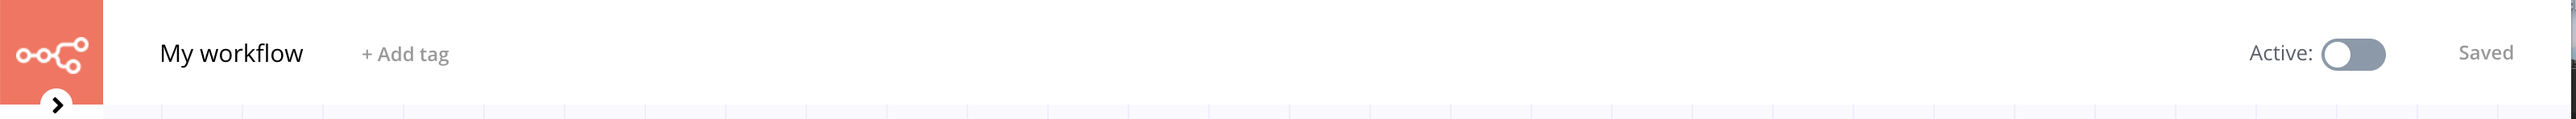
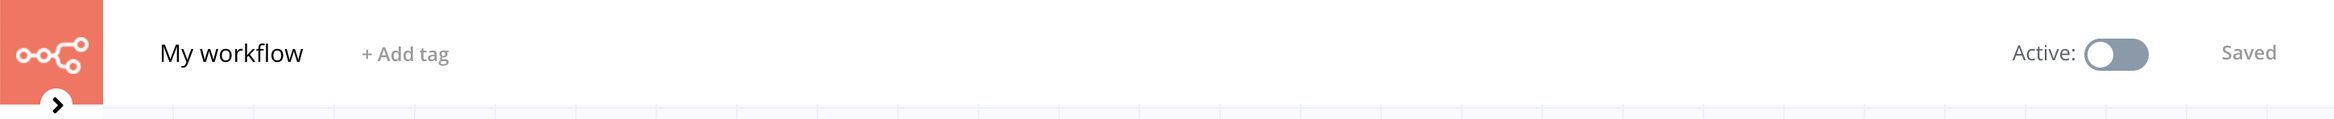
:hammer: Edits based on UX tests

Changed region(s): [[0.0, 0.0, 0.2174, 0.9459], [0.8385, 0.0, 1.0, 1.0]]

diff --git a/docs/.vuepress/config.js b/docs/.vuepress/config.js
@@ -183,7 +183,7 @@ module.exports = {
 					path: '/courses/',
 				},
 				{
-					title: '🎓 Level 1',
+					title: '🎓 Level 1: Beginners\' course',
 					path: '/courses/level-one/',
 					sidebarDepth: 1,
 					children: [

diff --git a/docs/courses/level-one/chapter-1.md b/docs/courses/level-one/chapter-1.md
@@ -1,12 +1,12 @@
 # Navigating the Editor UI
 
-> In this lesson, you will learn to navigate the Editor UI. We will walk through the canvas and show you what each icon means and where to find things. Don’t worry if you don’t understand some of the concepts that are mentioned, we will explain them in detail as we build the workflow.
+In this lesson, you will learn to navigate the Editor UI. We will walk through the canvas and show you what each icon means and where to find things that you will need while building workflows in n8n.
 
 [[toc]]
 
 ## Getting started
 
-First of all, you need to set up n8n. There are different ways to [get started with n8n](https://docs.n8n.io/getting-started/quickstart.html#sign-up-on-n8n-cloud): you can [install it locally with npm](https://docs.n8n.io/getting-started/quickstart.html#install-with-npm), run it with Docker, or sign up on [n8n.cloud](http://n8n.cloud). The option you choose depends on your preference and technical requirements.
+First of all, you need to set up n8n. There are different ways to [get started with n8n](https://docs.n8n.io/getting-started/installation/): you can [install it locally with npm](https://docs.n8n.io/getting-started/quickstart.html#install-with-npm), run it with Docker, or sign up on [n8n.cloud](http://n8n.cloud). The option you choose depends on your preference and technical requirements.
 
 **In this course, we will use an n8n.cloud instance with the n8n version 0.127.0.**
 
@@ -18,12 +18,12 @@ Now that you have the Editor UI open, you'll learn how to navigate it.
 
 ## Editor UI settings
 
-The [Editor UI](http://docs.n8n.io/reference/glossary.html#editor-ui) represents the web interface used to create [workflows](http://docs.n8n.io/getting-started/key-components/workflow.html). Think of it as a canvas where the artist in you creates automations. From the Editor UI, you can access all your workflows and credentials, as well as the n8n documentation and forum.
+The [Editor UI](http://docs.n8n.io/reference/glossary.html#editor-ui) represents the web interface used to create [workflows](http://docs.n8n.io/getting-started/key-components/workflow.html). Think of it as a canvas where the artist in you will create automations. From the Editor UI, you can access all your workflows and credentials, as well as the n8n documentation and forum.
 
 ### Left-side panel
 Right under the n8n logo in the upper left corner, you will notice a round arrow icon. Click on it to open the left-side menu, which contains the core functionalities and settings for managing workflows.
 
-<figure><img src="./images/chapter-one/Left-side-menu.png" alt="Editor UI left-side menu" style="width:30%"><figcaption align = "center"><i>Editor UI left-side menu</i></figcaption></figure>
+<figure style="text-align: center;"><img src="./images/chapter-one/Left-side-menu.png" alt="Editor UI left-side menu" style="height: 600px;"><figcaption align = "center"><i>Editor UI left-side menu</i></figcaption></figure>
 
 
 There are four main sections in the left menu:
@@ -55,18 +55,20 @@ The *canvas* is the grey grid background in the Editor UI. On the canvas, you th
 - On the top right corner of the canvas there is an orange circle with a *+* sign inside. This button opens the nodes panel and you’ll learn more about nodes in the following chapter.
 - In the center of the canvas, there is a square with a green play icon inside. This is the *Start node*. You will learn more about nodes in the [next section](#nodes).
 
-Don’t worry about workflow execution and activation for now, we will explain these concepts in the lesson Running the workflow.
+::: tip 💡 Moving the canvas
+You can move the workflow canvas around in two ways:
+- Click **Ctrl + Left Mouse Button** on the canvas and move it around
+- Place two fingers on your touchpad and slide
+:::
+
+Don’t worry about workflow execution and activation for now, we will explain these concepts later on in the course.
 
 ## Nodes
-
-The [*Start node*](https://docs.n8n.io/nodes/n8n-nodes-base.start) is the default starting point in any workflow. Every time you create a new workflow, a *Start node* will be included by default.
-
-<figure><img src="./images/chapter-one/Start-node.png" alt="Start node" style="width:50%"><figcaption align = "center"><i>Start node</i></figcaption></figure>
 
 You can think of nodes as building blocks that serve different functions but put together, they make up a functioning machinery – an automated workflow.
 
 ::: tip 📖 Node
-Technically, a [node](http://docs.n8n.io/reference/glossary.html#node) is an entry point for retrieving data, a function to process data, or an exit point for sending data. The functions can be pretty much anything, like data processing or conditional filtering.
+A [node](http://docs.n8n.io/reference/glossary.html#node) is an entry point for retrieving data, a function to process data, or an exit point for sending data. The functions can be pretty much anything, like data processing or conditional filtering.
 :::
 
 Based on their function, nodes can be classified into three types:
@@ -74,6 +76,14 @@ Based on their function, nodes can be classified into three types:
 - **Regular Nodes** add, remove, and edit data, as well as request and send external data.
 - **Trigger Nodes** start a workflow and supply the initial data.
 - **Core Nodes** are those that do not represent an app or a service, instead they serve general functions, like scheduling workflows or adding JavaScript functions. Core Nodes can function as regular nodes or as triggers.
+
+### Start node
+
+The [*Start node*](https://docs.n8n.io/nodes/n8n-nodes-base.start) is the default starting point in any workflow. Every time you create a new workflow, a *Start node* will be included by default.
+
+<figure style="text-align: center;"><img src="./images/chapter-one/Start-node.png" alt="Start node" style="width:30%"><figcaption align = "center"><i>Start node</i></figcaption></figure>
+
+The **Start** node cannot be deleted or duplicated. If you have a workflow in which you don’t use the Start node, you can remove the connection, deactivate it, and move it away from the workflow. If you need more than one Start node, you probably need to use other Trigger nodes or create separate workflows.
 
 You’ve probably figured out already that the *Start node* is a Core Trigger node. Apart from it, there are over 200 other Regular and Trigger nodes for various functions, apps, and services.
 
@@ -87,48 +97,22 @@ You can find all available nodes in the nodes panel on the right side of the Edi
 
 The nodes panel looks like this:
 
-<figure><img src="./images/chapter-one/Nodes-panel.png" alt="Nodes panel" style="width:50%"><figcaption align = "center"><i>Nodes panel</i></figcaption></figure>
+<figure style="text-align: center;"><img src="./images/chapter-one/Nodes-panel.png" alt="Nodes panel" style="width:50%"><figcaption align = "center"><i>Nodes panel</i></figcaption></figure>
 
-In the nodes panel, notice that the nodes are grouped in three tabs: All, Regular, and Trigger. In addition, nodes are also grouped by their functionality domain (like Analytics or Sales). This makes it easier to find the right nodes you need. 
+In the nodes panel, notice that the nodes are grouped in three tabs: All, Regular, and Trigger. In addition, nodes are also grouped by their functionality domain (like Analytics or Sales). This makes it easier to find the right nodes you need.
 
 If you want to get a specific node, type in the name of the node, app, or service in the search field and select the respective tab.
 
 ### Adding nodes
 
-To add a new node to the Editor UI, simply click on the node you want in the nodes panel. The new node will automatically be connected to the last added node on the canvas.
+To add a new node to the Editor UI, simply click on the node you want in the nodes panel. The new node will automatically be connected to the selected node on the canvas.
 
 So, to recapitulate here’s a walkthrough of the Editor UI touching on all the settings you’ve learned in this chapter:
 
 <figure><img src="./images/chapter-one/Editor-UI-walkthrough.gif" alt="Editor UI walkthrough" style="width:100%"><figcaption align = "center"><i>Editor UI walkthrough</i></figcaption></figure>
 
 
-### Node executions
-
-::: tip 📖 Node execution
-A node execution represents a run of that node, to retrieve the specified data.
-:::
-
-If the parameters are configured correctly and everything works fine, the requested data will be displayed in the node window in *Table* and *JSON* format. You can switch between these views by selecting the one you want from the *JSON|Table* button at the top of the node window.
-
-::: tip 📖 Table vs JSON views
-The *Table* view is the default. It displays the requested data in a table, where the rows are the records and the columns are the available attributes of those records.
-:::
-
-<figure><img src="./images/chapter-one/Hacker-news-json.png" alt="Results in JSON view for the Hacker News node" style="width:100%"><figcaption align = "center"><i>Results in JSON view for the Hacker News node</i></figcaption></figure>
-
-The node window displays more information about the node execution:
-
-- In the top left corner of the results window, you’ll notice another piece of information: ***Items**: 10*.  
-This field displays the number of items (records) that are returned by the node request. In our case, it’s expected to be 10, since this is the limit we set in the node. But if you don’t set a limit, it’s useful to see how many records are actually returned.
-- Next to the *Items* information, notice a small orange *i* icon. If you hover on it, you’ll get two more pieces of information: ***Start Time*** (when the node execution started) and ***Execution Time*** (how long it took for the node to return the results from the moment it started executing).  
-*Start Time* and *Execution Time* can provide insights into the performance of each individual node.
-- In the bottom right corner right under the node window, there is a reference link to the node’s **documentation**. Check it out if you ever run into troubles or are not sure how to configure the node’s parameters.
-
 ### Node buttons
-
-If a node executed successfully, a small green circle with a number inside will appear on top of the node.
-
-<figure><img src="./images/chapter-one/Hacker-news-success.png" alt="Successfully executed workflow" style="width:100%"><figcaption align = "center"><i>Successfully executed workflow</i></figcaption></figure>
 
 If you go ahead and hover on the node, you’ll notice that four other icons appear on top of it:
 
@@ -140,22 +124,12 @@ If you go ahead and hover on the node, you’ll notice that four other icons app
 <figure><img src="./images/chapter-one/Node-buttons.gif" alt="The four node buttons" style="width:100%"><figcaption align = "center"><i>The four node buttons</i></figcaption></figure>
 
 
-::: warning ⚠ Start node
-The **Start** node cannot be deleted or duplicated. If you have a workflow in which you don’t use the Start node, you can remove the connection, deactivate it, and move it away from the workflow. If you need more than one Start node, you probably need to use other Trigger nodes or create separate workflows.
-:::
-
-If you want to edit the parameters of a node, double-click on it and it will open the node window.
-
-::: tip 💡 Moving the canvas
-You can move the workflow canvas around in two ways:
-- Click **Ctrl + Left Mouse Button** on the canvas and move it around
-- Place two fingers on your touchpad and slide
-
+::: tip 💡 Moving a workflow
 To move a workflow around the canvas, select all nodes (**Ctrl + A**), click on a node, and drag it at a point you want on the canvas.
 :::
 
-----
+
 ## Summary
 In this lesson, you learned how to navigate the Editor UI, what the icons mean, how to access the left-side and node panels, how to add nodes to the canvas and interpret their execution results.
 
-In the next lesson, you will build a mini-workflow to put into practice what you've learned so far. 
+In the next lesson, you will build a mini-workflow to put into practice what you've learned so far.

diff --git a/docs/courses/level-one/chapter-2.md b/docs/courses/level-one/chapter-2.md
@@ -1,12 +1,15 @@
 # Building a mini-workflow
 
-> In this lesson, you will apply what you learned in the previous lesson by building your first workflow, consisting of the *Start node* and a Regular node.
+In this lesson, you will apply what you learned in the previous lesson by building your first workflow, consisting of the *Start node* and a Regular node.
 
 A simple, yet useful automation is getting articles from Hacker News, so that you’re up to date with the tech world. More specifically, let’s say you want to get the latest 10 articles related to automation.
 
 You can build a workflow for this use case in 4 steps:
 
-[[toc]]
+[1. Add the Hacker News node](#_1-add-the-hacker-news-node)<br/>
+[2. Configure the Hacker News node](#_2-configure-the-hacker-news-node)<br/>
+[3. Save the workflow](#_3-save-the-workflow)<br/>
+[4. Execute the node](#_4-execute-the-node)<br/>
 
 ## 1. Add the Hacker News node
 
@@ -20,7 +23,7 @@ When you add a new node to the Editor UI, the node will be automatically activat
 *Parameters* are different for each node, depending on its functionality. *Settings* are largely the same for all nodes.
 :::
 
-**Parameters**
+### Parameters
 
 The *HackerNew node* has several parameters that need to be configured in order to make it work:
 
@@ -39,15 +42,15 @@ The configuration of the parameters for the *Hacker News node* should now look l
 
 <figure><img src="./images/chapter-one/Hacker-news-params.png" alt="Hacker News node parameters" style="width:100%"><figcaption align = "center"><i>Hacker News node parameters</i></figcaption></figure>
 
-**Settings**
+### Settings
 
-The *Settings* part includes several options for node design and executions. In this case, we’ll configure only the first two settings, which are about the node’s appearance in the Editor UI. In the *Hacker News node* settings, edit:
+The *Settings* section includes several options for node design and executions. In this case, we’ll configure only the first two settings, which are about the node’s appearance in the Editor UI. In the *Hacker News node* settings, edit:
 
-- *Notes:* Get the 10 latest articles  
+- *Notes:* Get the 10 latest articles
 ::: tip 💡 Node notes
 It is often helpful, especially for complex workflows or if you share them with other users, to add a short description in the node about what it does.
 :::
-- *Display note in flow?:* toggle to true  
+- *Display note in flow?:* toggle to true<br/>
 This option will display the description note under the node in the Editor UI.
 
 The configuration of the settings for the *Hacker News node* looks like this:
@@ -81,9 +84,35 @@ Now, click on the *Execute Node* button in the top right corner of the node wind
 
 <figure><img src="./images/chapter-one/Hacker-news-table.png" alt="Results in Table view for the Hacker News node" style="width:100%"><figcaption align = "center"><i>Results in Table view for the Hacker News node</i></figcaption></figure>
 
-To consolidate what you've learned so far, have a closer look at the *JSON view* and information about the node's execution, like you learned in the [previous lesson](./chapter-1-components.md#node-executions).
 
-----
-> Congratulations, you just built your first workflow! In this lesson, you've learned how to use Regular nodes, configure their parameters and settings, save and execute your workflow.
->
-> In the next lesson, you will be introduced to our friend Nathan, who needs to automate his sales reporting work. You will build a more complex workflow for his use case, helping him become more productive at work.
+## Node executions
+
+::: tip 📖 Node execution
+A node execution represents a run of that node, to retrieve the specified data.
+:::
+
+If a node executed successfully, a small green circle with a number inside will appear on top of the node.
+
+<figure><img src="./images/chapter-one/Hacker-news-success.png" alt="Successfully executed workflow" style="width:100%"><figcaption align = "center"><i>Successfully executed workflow</i></figcaption></figure>
+
+If the parameters are configured correctly and everything works fine, the requested data will be displayed in the node window in *Table* and *JSON* format. You can switch between these views by selecting the one you want from the *JSON|Table* button at the top of the node window.
+
+::: tip 📖 Table vs JSON views
+The *Table* view is the default. It displays the requested data in a table, where the rows are the records and the columns are the available attributes of those records.
+:::
+
+<figure><img src="./images/chapter-one/Hacker-news-json.png" alt="Results in JSON view for the Hacker News node" style="width:100%"><figcaption align = "center"><i>Results in JSON view for the Hacker News node</i></figcaption></figure>
+
+The node window displays more information about the node execution:
+
+- In the top left corner of the results window, you’ll notice another piece of information: ***Items**: 10*.
+This field displays the number of items (records) that are returned by the node request. In our case, it’s expected to be 10, since this is the limit we set in the node. But if you don’t set a limit, it’s useful to see how many records are actually returned.
+- Next to the *Items* information, notice a small orange *i* icon. If you hover on it, you’ll get two more pieces of information: ***Start Time*** (when the node execution started) and ***Execution Time*** (how long it took for the node to return the results from the moment it started executing).
+*Start Time* and *Execution Time* can provide insights into the performance of each individual node.
+- In the bottom right corner right under the node window, there is a reference link to the node’s **documentation**. Check it out if you ever run into troubles or are not sure how to configure the node’s parameters.
+
+## Summary
+
+Congratulations, you just built your first workflow! In this lesson, you've learned how to use Regular nodes, configure their parameters and settings, save and execute your workflow.
+
+In the next lesson, you will be introduced to your client Nathan, who needs to automate his sales reporting work. You will build a more complex workflow for his use case, helping him become more productive at work.

diff --git a/docs/courses/level-one/README.md b/docs/courses/level-one/README.md
@@ -6,7 +6,7 @@ Welcome to the n8n Certification Course Level I!
 This course teaches you how to automate processes with no code using n8n and jumpstart your qualification as an automation expert.
 
 This course is for you if you:
-- want to automate things in your personal life<
+- want to automate things in your personal life
 - are looking for quick ways to automate common business processes
 - plan to become an n8n partner
 
@@ -15,7 +15,7 @@ This course is for you if you:
 
 By the end of this course, you will know:
 - How to set up n8n and navigate the Editor UI
-- How data is structured
+- How data is structured in n8n
 - How to configure different node parameters and add credentials
 - When and how to use conditional logic in workflows
 - How to schedule and control workflows
@@ -23,7 +23,7 @@ By the end of this course, you will know:
 
 You will build two workflows:
 - A two-node workflow to get articles from Hacker News
-- A seven-node workflow to help our friend Nathan get records from a data warehouse, filter them, make calculations, and notify team members about the results
+- A seven-node workflow to help your client get records from a data warehouse, filter them, make calculations, and notify team members about the results
 
 ## How will I learn?
 
@@ -49,4 +49,6 @@ Completing the course should take around two hours. You do not have to complete 
 
 If you want to earn a certificate to show off your skills to the world, you need to take and pass a quiz at the end of the course.
 
-### [Let’s get started!](../level-one/chapter-1-components.md)
+<div style="text-align:center;">
+	<button style="font-weight: 600;padding: 20px 46px;border-radius: 30px;color: #fff;background-color: #ff6d5a;border-color: #ff6d5a;border: 1px solid #ff6d5a;font-size: 14px;"><a href="chapter-1.html" style="color: #fff;">Let’s get started!</a></button>
+</div>

diff --git a/docs/courses/README.md b/docs/courses/README.md
@@ -2,9 +2,9 @@
 
 If you’ve found your way here, it means you’re about to get serious about your interest in automation. Maybe you got tired of manually entering data into the same spreadsheet every day, of clicking through a series of tabs and buttons to get that one piece of information you need, of managing tens of different tools and systems.
 
-Whatever the reason, one thing is clear: you shouldn’t spend precious time doing things that don’t spark joy and don’t contribute to your growth, in both your personal and professional life. 
+Whatever the reason, one thing is clear: you shouldn’t spend precious time doing things that don’t spark joy and don’t contribute to your growth, in both your personal and professional life.
 
 These tasks should and can be automated! And you don't even need advanced technical knowledge or excellent coding skills to do this: with no-code tools like n8n, automation feels like childsplay.
 
-n8n courses will live here:
-- [Level 1](./level-one/README.md)
+Here's a list of available courses:
+- [Level 1: Beginners' course](./level-one/README.md)
